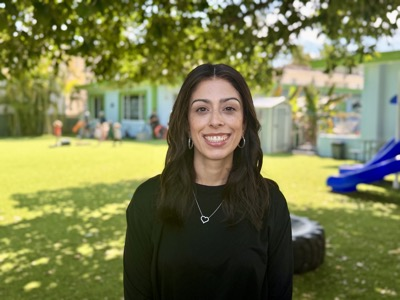
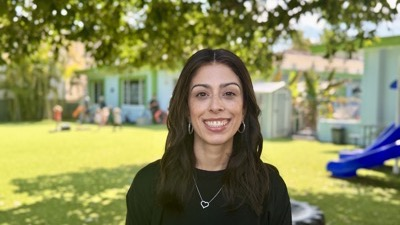
Add Chani Sharvit photo, crop Adam/Sharone/Stephanie tighter on face
- Added chani-sharvit.jpg and replaced avatar with real photo
- Cropped adam-eshel, sharone-eichberg, stephanie-nigri to tighter
  frame (removed excess sky/body) so faces fill circle better

diff --git a/pages/staff.html b/pages/staff.html
@@ -71,7 +71,7 @@
             <h2 id="preschool-staff-heading">Our Preschool team.</h2>
           </div>
           <div class="staff-grid-uniform" data-reveal>
-            <article class="staff-card staff-card--preschool"><div class="staff-card__avatar">CS</div><h3 class="staff-card__name">Chani Sharvit</h3><p class="staff-card__role">Assistant Director</p></article>
+            <article class="staff-card staff-card--preschool"><img class="staff-card__photo" src="../assets/images/staff/chani-sharvit.jpg" alt="Chani Sharvit" loading="lazy"><h3 class="staff-card__name">Chani Sharvit</h3><p class="staff-card__role">Assistant Director</p></article>
             <article class="staff-card staff-card--preschool"><img class="staff-card__photo" src="../assets/images/staff/fay-hertzel.jpg" alt="Fay Hertzel" loading="lazy"><h3 class="staff-card__name">Fay Hertzel</h3><p class="staff-card__role">Daisies, Lead Teacher</p></article>
             <article class="staff-card staff-card--preschool"><img class="staff-card__photo" src="../assets/images/staff/lia-garcia.jpg" alt="Lia Garcia" loading="lazy"><h3 class="staff-card__name">Lia Garcia</h3><p class="staff-card__role">Daisies, Assistant</p></article>
             <article class="staff-card staff-card--preschool"><img class="staff-card__photo" src="../assets/images/staff/lilly-tyagney.jpg" alt="Lilly Tyagney" loading="lazy"><h3 class="staff-card__name">Lilly Tyagney</h3><p class="staff-card__role">Daisies, Assistant</p></article>
